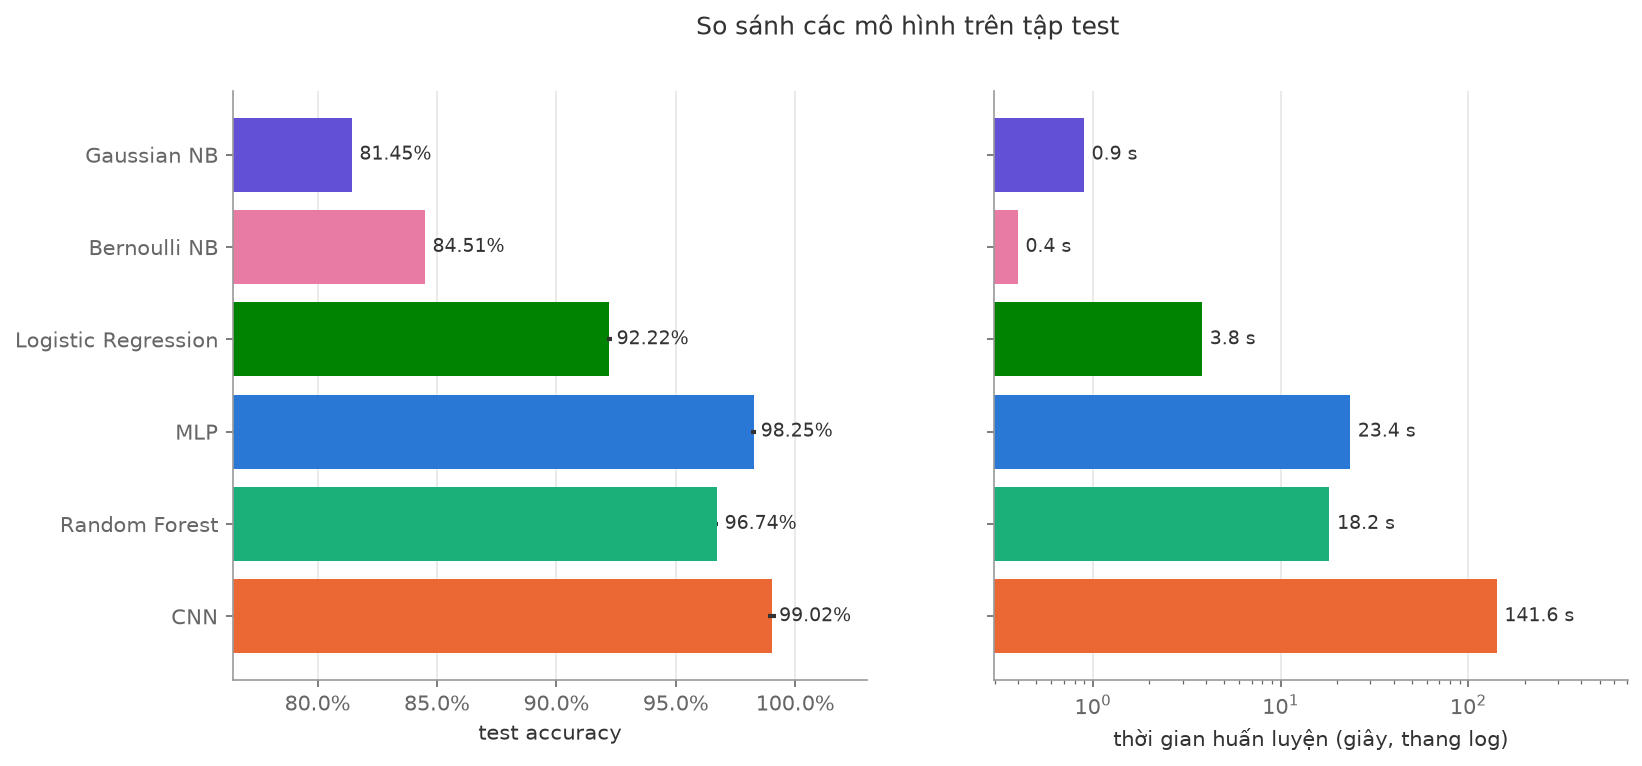
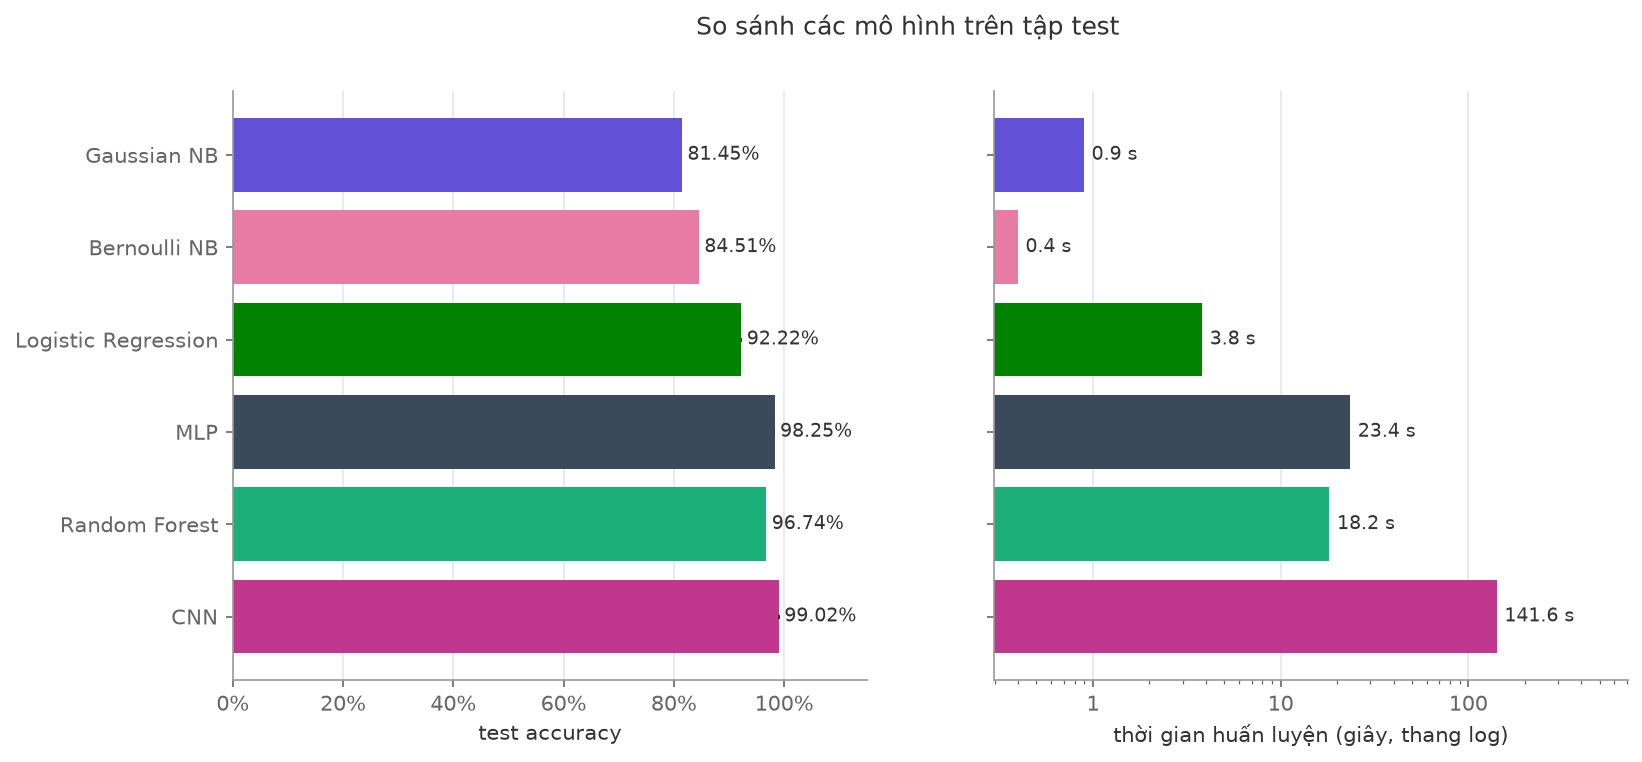
fix: address figure review (percent ticks, dumbbell sweep, zero-based bars, shared log/tick formatting, reserve blue/orange for train/val)

diff --git a/src/plotting.py b/src/plotting.py
@@ -2,15 +2,17 @@
 
 Quy ước:
 - cùng kích thước hình, cùng độ phân giải, lưu vào results/figures/;
-- train luôn màu xanh, validation luôn màu cam; mỗi mô hình có một màu cố định (MODEL_COLORS)
-  dùng chung ở mọi hình so sánh;
+- train luôn màu xanh, validation luôn màu cam, và hai màu này chỉ dùng cho train/validation;
+  mỗi mô hình có một màu cố định (MODEL_COLORS) dùng chung ở mọi hình so sánh; các đường
+  cấu hình, hàm kích hoạt... dùng LINE_COLORS, không trùng màu nào ở trên;
 - tên mô hình và tên siêu tham số hiển thị theo MODEL_LABELS, PARAM_LABELS (tiếng Việt,
   giữ thuật ngữ quen thuộc như train, validation, accuracy);
 - accuracy hiển thị theo phần trăm; điểm được chọn theo validation đánh dấu bằng ngôi sao.
 
 Bảng màu đã kiểm tra bằng mô phỏng mù màu đỏ/lục (OKLab ΔE, Machado 2009): các màu đứng cạnh
 nhau trong hình so sánh mô hình, và cặp MLP/CNN (vẽ chung trong learning curve), đều tách
-biệt cả với người mù màu (ΔE >= 8) lẫn người nhìn bình thường (ΔE >= 15).
+biệt cả với người mù màu (ΔE >= 8) lẫn người nhìn bình thường (ΔE >= 15). Màu MLP, CNN và
+LINE_COLORS cũng tách biệt với xanh train và cam validation theo cùng ngưỡng.
 """
 
 import os
@@ -27,7 +29,7 @@ TRAIN_COLOR = "#2a78d6"  # xanh dương
 VAL_COLOR = "#eb6834"  # cam
 # Màu cho các đường không phải mô hình (cấu hình, hàm kích hoạt...), dùng theo thứ tự.
 # Tối đa 3 đường một hình: 3 màu này tách biệt từng đôi một, kể cả với người mù màu.
-LINE_COLORS = ["#2a78d6", "#eb6834", "#1baf7a"]
+LINE_COLORS = ["#8e2c48", "#c9b200", "#a28ad8"]  # đỏ mận, vàng, tím nhạt
 INK = "#333333"  # màu chữ: xám đậm, đỡ gắt hơn đen tuyền
 # Thang một tông xanh, trắng -> xanh đậm, cho ma trận nhầm lẫn
 SEQUENTIAL_CMAP = LinearSegmentedColormap.from_list(
@@ -66,9 +68,9 @@ MODEL_COLORS = {
     "naive_bayes": "#6250d6",  # tím
     "bernoulli_naive_bayes": "#e87ba4",  # hồng
     "logistic_regression": "#008300",  # xanh lá
-    "mlp": "#2a78d6",  # xanh dương
+    "mlp": "#3b4a5a",  # xám xanh
     "random_forest": "#1baf7a",  # xanh ngọc
-    "cnn": "#eb6834",  # cam
+    "cnn": "#c2378e",  # hồng đậm
 }
 PARAM_LABELS = {
     "var_smoothing": "var_smoothing",
@@ -84,6 +86,44 @@ PARAM_LABELS = {
 }
 
 
+def set_percent_axis(axis):
+    """Trục accuracy dạng phần trăm, số chữ số thập phân vừa đủ để phân biệt các vạch.
+
+    PercentFormatter(decimals=1) cố định 1 chữ số nên trục hẹp (vd 83.36%-83.52%) ghi trùng
+    "83.5%"; decimals=None thì thừa số 0 ("93.00%"). Ở đây số chữ số lấy theo khoảng cách
+    giữa hai vạch: cách 0.02% thì ghi 2 chữ số, cách 1% thì không ghi phần thập phân.
+    """
+
+    def fmt(value, _):
+        ticks = axis.get_majorticklocs()
+        step = np.min(np.diff(ticks)) * 100 if len(ticks) > 1 else 1.0
+        decimals = next((d for d in range(7) if abs(round(step, d) - step) < 1e-6 * step), 6)
+        return f"{value * 100:.{decimals}f}%"
+
+    axis.set_major_formatter(FuncFormatter(fmt))
+
+
+def set_log_axis(axis, subs=(1,)):
+    """Thang log, nhãn dạng số thường (0.01, 1, 100) thay cho 10^-2, 10^0, 10^2.
+
+    Dùng chung cho mọi trục log để các hình ghi số cùng một kiểu. subs: các mốc có nhãn trong
+    mỗi bậc 10; (1, 2, 5) cho trục hẹp, cần thêm mốc (0.01, 0.02, 0.05, 0.1...).
+    """
+    getattr(axis.axes, f"set_{axis.axis_name}scale")("log")
+    axis.set_major_locator(LogLocator(base=10, subs=subs))
+    axis.set_major_formatter(FuncFormatter(lambda v, _: f"{v:g}"))
+    axis.set_minor_formatter(NullFormatter())
+
+
+def format_param_value(text):
+    """Nhãn trục x cho một giá trị siêu tham số: số ghi theo :g ("0.0" -> "0", "1e-05"),
+    bộ số ghi nối bằng gạch ("(512, 256, 128)" -> "512-256-128"), còn lại giữ nguyên."""
+    if not is_ordered_value(text):
+        return text
+    parts = [part for part in text.strip("()[] ").split(",") if part.strip()]
+    return "-".join(f"{float(part):g}" for part in parts)
+
+
 def save_figure(fig, filename):
     """Lưu hình vào results/figures/filename rồi đóng hình."""
     os.makedirs(FIGURES_DIR, exist_ok=True)
@@ -93,20 +133,71 @@ def save_figure(fig, filename):
     return path
 
 
+def is_ordered_value(text):
+    """True nếu text là số hoặc bộ số ("0.01", "1e-05", "(256, 128)"): giá trị có thứ tự."""
+    parts = [part for part in text.strip("()[] ").split(",") if part.strip()]
+    try:
+        [float(part) for part in parts]
+    except ValueError:
+        return False
+    return bool(parts)
+
+
+def fit_tick_labels(fig, ax, pad_px=12):
+    """Kéo rộng hình (giữ chiều cao) nếu nhãn trục x nằm ngang chồng lên nhau.
+
+    Không xoay nhãn: đo độ rộng thật của từng nhãn, so với khoảng cách giữa hai vạch, rồi
+    nhân chiều rộng hình theo tỉ lệ thiếu. Nhãn vừa sẵn thì giữ kích thước FIGSIZE.
+    """
+    fig.canvas.draw()
+    renderer = fig.canvas.get_renderer()
+    widths = [label.get_window_extent(renderer).width for label in ax.get_xticklabels()]
+    if len(widths) < 2:
+        return
+    ticks = ax.transData.transform([(t, 0) for t in ax.get_xticks()])[:, 0]
+    spacing = np.min(np.diff(ticks))
+    needed = max((a + b) / 2 for a, b in zip(widths, widths[1:])) + pad_px
+    if needed > spacing:
+        width, height = fig.get_size_inches()
+        fig.set_size_inches(width * needed / spacing, height)
+
+
 def plot_sweep(df, model_name, param_name, filename):
     """Train và validation accuracy theo từng giá trị của param_name.
 
     df: mỗi hàng một giá trị thử, có các cột param_name, train_acc, val_acc.
-    Các giá trị đặt cách đều trên trục x (có thể không phải số, ví dụ hàm kích hoạt).
+    Các giá trị đặt cách đều trên trục x. Giá trị có thứ tự (số, hoặc bộ số như hidden_sizes)
+    vẽ thành đường; giá trị phân loại (vd hàm kích hoạt) vẽ dạng dumbbell: chỉ có điểm, nối
+    train với validation của cùng một giá trị, vì nối các giá trị với nhau sẽ gợi ra xu hướng
+    không có thật.
     """
-    labels = [str(value) for value in df[param_name]]
+    values = [str(value) for value in df[param_name]]
+    labels = [format_param_value(value) for value in values]
     x = np.arange(len(df))
     best = int(np.argmax(df["val_acc"]))
     best_val = df["val_acc"].iloc[best]
+    categorical = not all(is_ordered_value(value) for value in values)
 
     fig, ax = plt.subplots(figsize=FIGSIZE)
-    ax.plot(x, df["train_acc"], marker="o", color=TRAIN_COLOR, label="train")
-    ax.plot(x, df["val_acc"], marker="o", color=VAL_COLOR, label="validation")
+    if categorical:
+        ax.vlines(x, df["val_acc"], df["train_acc"], color="#cccccc", linewidth=3, zorder=1)
+        ax.plot(x, df["train_acc"], "o", markersize=9, color=TRAIN_COLOR, label="train")
+        ax.plot(x, df["val_acc"], "o", markersize=9, color=VAL_COLOR, label="validation")
+        for xi, train, val in zip(x, df["train_acc"], df["val_acc"]):
+            for value, color in ((train, TRAIN_COLOR), (val, VAL_COLOR)):
+                ax.annotate(
+                    f"{value:.2%}",
+                    (xi, value),
+                    xytext=(8, 0),
+                    textcoords="offset points",
+                    va="center",
+                    fontsize=9,
+                    color=color,
+                )
+        ax.set_xlim(-0.5, len(df) - 0.3)  # chừa chỗ cho số ghi bên phải điểm cuối
+    else:
+        ax.plot(x, df["train_acc"], marker="o", color=TRAIN_COLOR, label="train")
+        ax.plot(x, df["val_acc"], marker="o", color=VAL_COLOR, label="validation")
     ax.plot(
         x[best],
         best_val,
@@ -116,13 +207,11 @@ def plot_sweep(df, model_name, param_name, filename):
         markeredgecolor="black",
         linestyle="none",
     )
-    long_labels = len(labels) > 6 or max(len(label) for label in labels) > 8
-    ax.set_xticks(
-        x, labels, rotation=35 if long_labels else 0, ha="right" if long_labels else "center"
-    )
+    ax.set_xticks(x, labels)
+    fit_tick_labels(fig, ax)
     ax.set_xlabel(PARAM_LABELS.get(param_name, param_name))
     ax.set_ylabel("accuracy")
-    ax.yaxis.set_major_formatter(PercentFormatter(1.0, decimals=1))
+    set_percent_axis(ax.yaxis)
     ax.set_title(
         f"{MODEL_LABELS.get(model_name, model_name)}: {PARAM_LABELS.get(param_name, param_name)}\n"
         f"★ chọn {labels[best]} (val {best_val:.2%})",
@@ -174,15 +263,18 @@ def plot_model_comparison(test_df, filename):
         ecolor=INK,
     )
     for i, value in enumerate(test_df["accuracy_mean"]):
-        ax_acc.text(value + 0.003, i, f"{value:.2%}", va="center", fontsize=9)
-    ax_acc.set_xlim(test_df["accuracy_mean"].min() - 0.05, 1.03)
-    ax_acc.xaxis.set_major_formatter(PercentFormatter(1.0, decimals=1))
+        ax_acc.text(value + 0.01, i, f"{value:.2%}", va="center", fontsize=9)
+    # Thanh bắt đầu từ 0: cắt trục thì độ dài thanh phóng đại chênh lệch giữa các mô hình.
+    # Chênh lệch nhỏ đọc bằng số ghi cạnh thanh.
+    ax_acc.set_xlim(0, 1.15)
+    ax_acc.set_xticks(np.arange(0, 1.01, 0.2))
+    ax_acc.xaxis.set_major_formatter(PercentFormatter(1.0, decimals=0))
     ax_acc.set_xlabel("test accuracy")
 
     ax_time.barh(y, test_df["fit_time_s_mean"], color=colors)
     for i, value in enumerate(test_df["fit_time_s_mean"]):
         ax_time.text(value * 1.1, i, f"{value:.1f} s", va="center", fontsize=9)
-    ax_time.set_xscale("log")
+    set_log_axis(ax_time.xaxis)
     ax_time.set_xlim(right=test_df["fit_time_s_mean"].max() * 5)
     ax_time.set_xlabel("thời gian huấn luyện (giây, thang log)")
 
@@ -202,7 +294,14 @@ CURVE_PANELS = [
 
 
 def plot_learning_curves(
-    curves, filename, title, group=None, colors=None, mark_epoch=None, log_loss=False
+    curves,
+    filename,
+    title,
+    group=None,
+    colors=None,
+    mark_epoch=None,
+    mark_label="epoch được chọn",
+    log_loss=False,
 ):
     """Learning curve: mỗi cột có trong bảng (train loss, val loss, val acc) là một ô.
 
@@ -212,6 +311,7 @@ def plot_learning_curves(
     colors: dict {giá trị nhóm: màu}; mặc định lấy LINE_COLORS theo thứ tự.
     mark_epoch: số epoch, hoặc dict {giá trị nhóm: epoch}, vẽ nét đứt (epoch được chọn hoặc
         epoch early stopping giữ lại).
+    mark_label: chú thích nét đứt trong legend, ghi kèm số epoch ("<mark_label>: 6").
     log_loss: thang log cho các ô loss.
     """
     panels = [(col, label) for col, label in CURVE_PANELS if col in curves]
@@ -232,22 +332,18 @@ def plot_learning_curves(
                 ax.fill_between(mean.index, mean - std, mean + std, color=color, alpha=0.2)
             if epoch is not None:
                 # Chú thích nét đứt nằm trong legend của ô val acc, không ghi lên tiêu đề
-                mark_label = f"epoch được chọn: {epoch}" if col == "val_acc" else None
-                ax.axvline(epoch, linestyle="--", linewidth=1, color=color, label=mark_label)
+                dashed_label = f"{mark_label}: {epoch}" if col == "val_acc" else None
+                ax.axvline(epoch, linestyle="--", linewidth=1, color=color, label=dashed_label)
 
     for ax, (col, label) in zip(axes, panels):
         ax.set_xlabel("epoch")
         ax.set_ylabel(label)
         ax.grid()
         if col == "val_acc":
-            ax.yaxis.set_major_formatter(PercentFormatter(1.0, decimals=1))
+            set_percent_axis(ax.yaxis)
         elif log_loss:
-            ax.set_yscale("log")
-            # Nhãn chỉ ở các mốc 1, 2, 5 của mỗi bậc 10 (0.01, 0.02, 0.05, 0.1...), dạng số
-            # thường thay cho 4×10^-2; ghi nhãn ở mọi vạch thì chữ chồng lên nhau.
-            ax.yaxis.set_major_locator(LogLocator(base=10, subs=(1, 2, 5)))
-            ax.yaxis.set_major_formatter(FuncFormatter(lambda v, _: f"{v:g}"))
-            ax.yaxis.set_minor_formatter(NullFormatter())
+            # Trục loss hẹp (chưa tới 2 bậc 10) nên cần thêm mốc 2, 5 giữa các bậc
+            set_log_axis(ax.yaxis, subs=(1, 2, 5))
     if group is not None:
         axes[0].legend(fontsize=9)
     if mark_epoch is not None:

diff --git a/experiments/vanishing_gradient.py b/experiments/vanishing_gradient.py
@@ -21,17 +21,11 @@ import os
 import matplotlib.pyplot as plt
 import numpy as np
 import pandas as pd
-from matplotlib.ticker import (
-    FuncFormatter,
-    LogLocator,
-    MaxNLocator,
-    NullFormatter,
-    PercentFormatter,
-)
+from matplotlib.ticker import MaxNLocator
 
 from src.data import load_dataset
 from src.models.mlp import ACTIVATIONS, MLP
-from src.plotting import LINE_COLORS, save_figure
+from src.plotting import LINE_COLORS, save_figure, set_log_axis, set_percent_axis
 from src.utils import SEED, Timer, set_seed
 
 NETWORKS = {"2 lớp ẩn": (256, 128), "6 lớp ẩn": (128,) * 6}
@@ -80,11 +74,8 @@ def plot_grad_norms(df):
             ax.bar(
                 s["layer"] + (k - 1) * width, s["grad_norm"], width, label=act, color=COLORS[act]
             )
-        ax.set_yscale("log")
         # Chỉ hiện các mốc 0.0001, 0.001, ..., 10 dạng số thường; bỏ nhãn phụ kiểu 6×10^-1
-        ax.yaxis.set_major_locator(LogLocator(base=10))
-        ax.yaxis.set_major_formatter(FuncFormatter(lambda v, _: f"{v:g}"))
-        ax.yaxis.set_minor_formatter(NullFormatter())
+        set_log_axis(ax.yaxis)
         ax.set_xlabel("lớp l (1 = gần đầu vào)")
         ax.set_title(f"{net}: độ lớn gradient lúc khởi tạo")
         ax.set_xticks(sorted(sub["layer"].unique()))
@@ -128,7 +119,7 @@ def plot_train_curves(df):
             ax.axvline(20, linestyle="--", linewidth=1, color="#999999")
             ax.text(20.5, 0.15, "20 epoch\n(sweep activation)", fontsize=8, color="#666666")
         ax.set_ylim(0, 1)
-        ax.yaxis.set_major_formatter(PercentFormatter(1.0))
+        set_percent_axis(ax.yaxis)
         ax.xaxis.set_major_locator(MaxNLocator(integer=True, steps=[1, 2, 5, 10]))
         ax.set_xlabel("epoch")
         ax.set_ylabel("validation accuracy")

diff --git a/experiments/hyperparams/mlp.py b/experiments/hyperparams/mlp.py
@@ -86,6 +86,7 @@ def plot_mlp_curves(curves, kept_epochs):
         "MLP: SGD thường và SGD + momentum + early stopping",
         group="config",
         mark_epoch=kept_epochs,
+        mark_label="early stopping giữ lại",
     )
 
 
